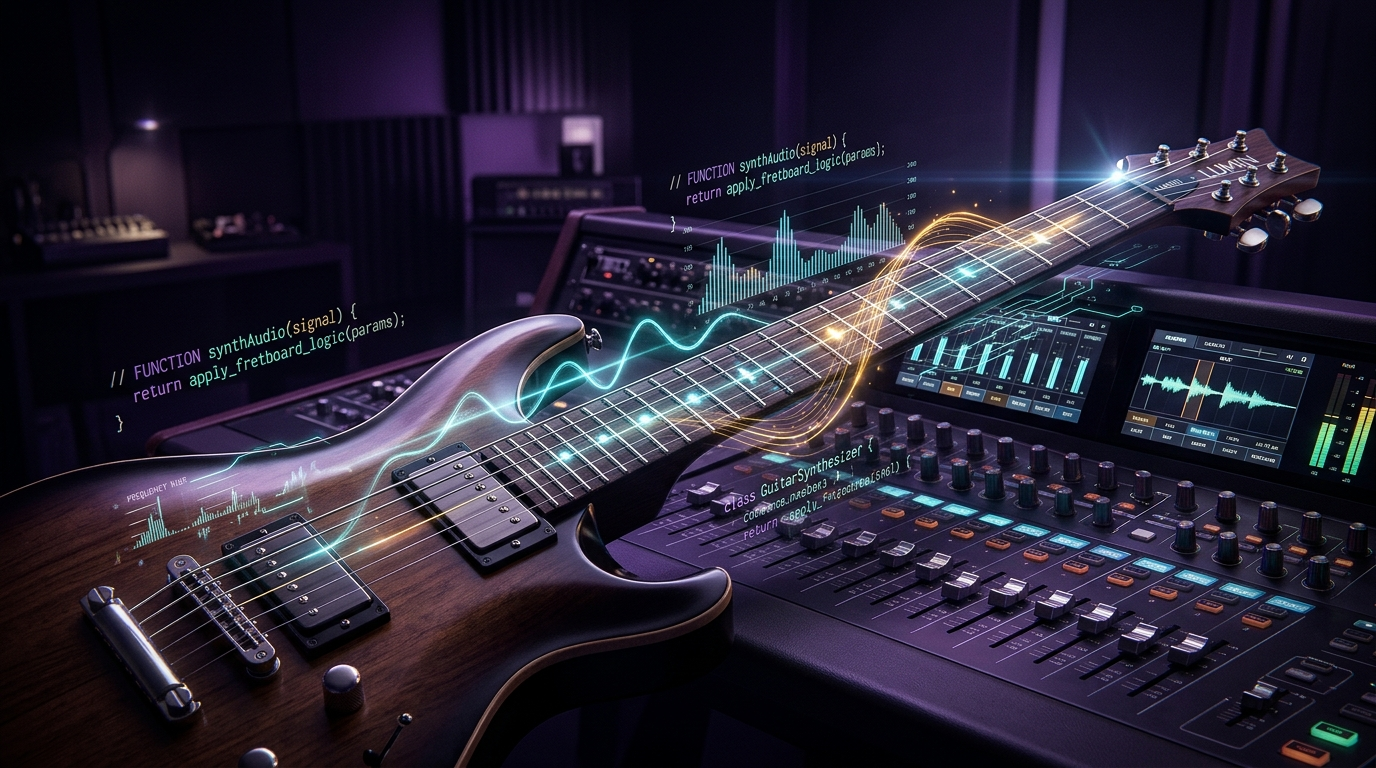
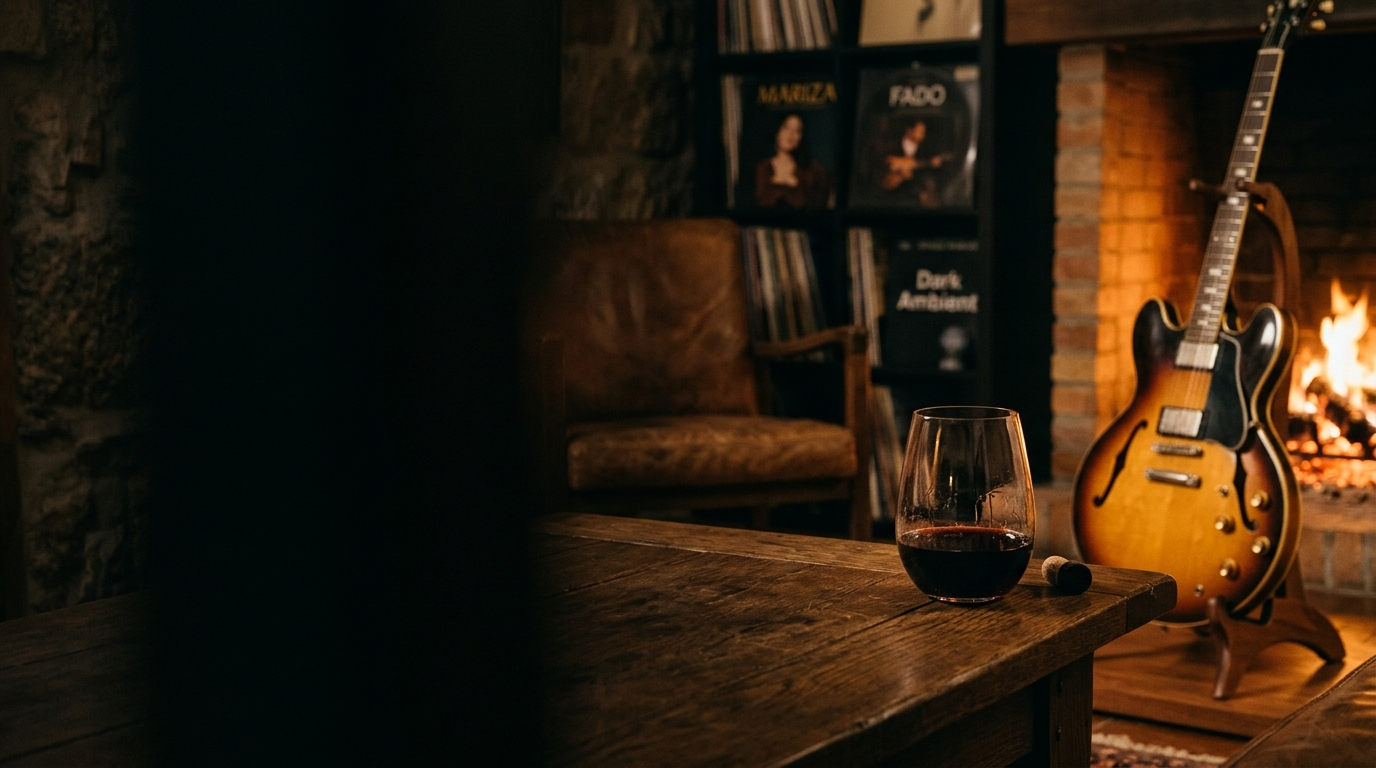
Update hero header: cozy evening lounge with Portuguese wine, guitar by the fireplace, and warm amber light waves

diff --git a/assets/css/style.scss b/assets/css/style.scss
@@ -572,7 +572,7 @@ header {
     display: flex;
     flex-direction: column;
     justify-content: flex-end;
-    border-bottom: 2px solid rgba(56, 189, 248, 0.4);
+    border-bottom: 2px solid rgba(251, 146, 60, 0.35);
 
     .header-content-wrapper {
         position: relative;
@@ -627,23 +627,23 @@ header {
         font-weight: 600;
         letter-spacing: 0.12em;
         text-transform: uppercase;
-        color: #38bdf8;
-        background: rgba(14, 165, 233, 0.12);
-        border: 1px solid rgba(56, 189, 248, 0.3);
+        color: #fb923c;
+        background: rgba(251, 146, 60, 0.12);
+        border: 1px solid rgba(251, 146, 60, 0.3);
         backdrop-filter: blur(8px);
         -webkit-backdrop-filter: blur(8px);
         padding: 4px 12px;
         border-radius: 9999px;
         margin-bottom: 14px;
-        box-shadow: 0 0 16px rgba(56, 189, 248, 0.2);
+        box-shadow: 0 0 16px rgba(251, 146, 60, 0.2);
 
         .pulse-indicator {
             width: 7px;
             height: 7px;
-            background: #38bdf8;
+            background: #f97316;
             border-radius: 50%;
             display: inline-block;
-            box-shadow: 0 0 10px #38bdf8;
+            box-shadow: 0 0 10px #f97316;
             animation: hero-badge-pulse 2s infinite ease-in-out;
         }
     }
@@ -652,7 +652,7 @@ header {
         font-weight: 900;
         letter-spacing: -0.04em;
         text-shadow: 0 2px 20px rgba(0, 0, 0, 0.9);
-        background: linear-gradient(135deg, #ffffff 40%, #bae6fd 100%);
+        background: linear-gradient(135deg, #ffffff 40%, #fed7aa 100%);
         -webkit-background-clip: text;
         -webkit-text-fill-color: transparent;
     }
@@ -665,15 +665,15 @@ header {
 
     .social a {
         background: rgba(255, 255, 255, 0.08);
-        border-color: rgba(56, 189, 248, 0.3);
+        border-color: rgba(251, 146, 60, 0.3);
 
         &:hover {
-            background: rgba(56, 189, 248, 0.25);
-            border-color: rgba(56, 189, 248, 0.65);
-            box-shadow: 0 0 20px rgba(56, 189, 248, 0.35);
+            background: rgba(251, 146, 60, 0.22);
+            border-color: rgba(251, 146, 60, 0.65);
+            box-shadow: 0 0 20px rgba(251, 146, 60, 0.35);
 
             i {
-                color: #e0f2fe;
+                color: #ffedd5;
             }
         }
     }

diff --git a/assets/js/audio-waves.js b/assets/js/audio-waves.js
@@ -1,4 +1,4 @@
-// Subtle glowing audio waveform canvas animation across the hero header
+// Subtle warm glowing ambient ember/light wave animation across the hero header
 (function () {
     var canvas = document.getElementById('hero-waveform-canvas');
     if (!canvas) return;
@@ -18,21 +18,20 @@
 
     var time = 0;
     var waves = [
-        { freq: 0.008, speed: 0.015, amp: 28, color: 'rgba(56, 189, 248, 0.45)', lineWidth: 2 },
-        { freq: 0.012, speed: 0.022, amp: 38, color: 'rgba(168, 85, 247, 0.4)', lineWidth: 2 },
-        { freq: 0.006, speed: 0.012, amp: 22, color: 'rgba(251, 146, 60, 0.35)', lineWidth: 1.5 }
+        { freq: 0.007, speed: 0.012, amp: 26, color: 'rgba(251, 146, 60, 0.42)', lineWidth: 2 }, // Warm amber
+        { freq: 0.011, speed: 0.018, amp: 34, color: 'rgba(239, 68, 68, 0.35)', lineWidth: 2 },  // Wine ruby
+        { freq: 0.005, speed: 0.009, amp: 20, color: 'rgba(253, 224, 71, 0.28)', lineWidth: 1.5 } // Fireplace gold
     ];
 
     function drawWave(w) {
         ctx.beginPath();
-        var yBase = canvas.height * 0.78;
+        var yBase = canvas.height * 0.82;
         ctx.moveTo(0, yBase);
 
         for (var x = 0; x < canvas.width; x += 3) {
-            // Sinusoidal wave modulated with harmonic overtones
             var y = yBase +
-                Math.sin(x * w.freq + time * w.speed) * w.amp * Math.sin(x * 0.003 + time * 0.01) +
-                Math.sin(x * 0.02 + time * 0.03) * 6;
+                Math.sin(x * w.freq + time * w.speed) * w.amp * Math.sin(x * 0.003 + time * 0.008) +
+                Math.sin(x * 0.018 + time * 0.02) * 5;
             ctx.lineTo(x, y);
         }
 

diff --git a/_includes/page_header.html b/_includes/page_header.html
@@ -4,7 +4,7 @@
 	<div class="hero-vignette" aria-hidden="true"></div>
 	<div class="container header-container">
 		<div class="hero-tag-badge">
-			<span class="pulse-indicator"></span> Audio &bull; Code &bull; Engineering
+			<span class="pulse-indicator"></span> Music &bull; Wine &bull; Tech
 		</div>
 		<h1>{{ site.texture.title }}</h1>
 		<h2>{{ site.texture.tagline }}</h2>
